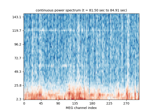
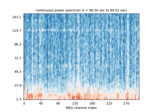
CircleCI update of mne-realtime docs (762).

Changed region(s): [[0.125, 0.0804, 0.875, 0.9107], [0.6875, 0.0804, 0.7188, 0.1071], [0.125, 0.375, 0.1562, 0.4018]]

diff --git a/mne-realtime/auto_examples/sg_execution_times.html b/mne-realtime/auto_examples/sg_execution_times.html
@@ -378,7 +378,7 @@
                   
   <section id="computation-times">
 <span id="sphx-glr-auto-examples-sg-execution-times"></span><h1>Computation times<a class="headerlink" href="#computation-times" title="Link to this heading">#</a></h1>
-<p><strong>01:22.800</strong> total execution time for 8 files <strong>from auto_examples</strong>:</p>
+<p><strong>01:17.854</strong> total execution time for 8 files <strong>from auto_examples</strong>:</p>
 <div class="docutils container">
 <style scoped>
 <link href="https://cdnjs.cloudflare.com/ajax/libs/twitter-bootstrap/5.3.0/css/bootstrap.min.css" rel="stylesheet" />
@@ -400,28 +400,28 @@ $(document).ready( function () {
 </thead>
 <tbody>
 <tr class="row-even"><td><p><a class="reference internal" href="plot_compute_rt_decoder.html#sphx-glr-auto-examples-plot-compute-rt-decoder-py"><span class="std std-ref">Decoding real-time data</span></a> (<code class="docutils literal notranslate"><span class="pre">plot_compute_rt_decoder.py</span></code>)</p></td>
-<td><p>00:22.966</p></td>
-<td><p>325.3</p></td>
+<td><p>00:19.875</p></td>
+<td><p>323.9</p></td>
 </tr>
 <tr class="row-odd"><td><p><a class="reference internal" href="plot_compute_rt_average.html#sphx-glr-auto-examples-plot-compute-rt-average-py"><span class="std std-ref">Compute real-time evoked responses using moving averages</span></a> (<code class="docutils literal notranslate"><span class="pre">plot_compute_rt_average.py</span></code>)</p></td>
-<td><p>00:19.195</p></td>
-<td><p>507.6</p></td>
+<td><p>00:17.222</p></td>
+<td><p>506.5</p></td>
 </tr>
 <tr class="row-even"><td><p><a class="reference internal" href="plot_ftclient_rt_average.html#sphx-glr-auto-examples-plot-ftclient-rt-average-py"><span class="std std-ref">Compute real-time evoked responses with FieldTrip client</span></a> (<code class="docutils literal notranslate"><span class="pre">plot_ftclient_rt_average.py</span></code>)</p></td>
-<td><p>00:16.685</p></td>
-<td><p>195.4</p></td>
+<td><p>00:16.582</p></td>
+<td><p>197.8</p></td>
 </tr>
 <tr class="row-odd"><td><p><a class="reference internal" href="plot_ftclient_rt_compute_psd.html#sphx-glr-auto-examples-plot-ftclient-rt-compute-psd-py"><span class="std std-ref">Compute real-time power spectrum density with FieldTrip client</span></a> (<code class="docutils literal notranslate"><span class="pre">plot_ftclient_rt_compute_psd.py</span></code>)</p></td>
-<td><p>00:11.155</p></td>
-<td><p>194.7</p></td>
+<td><p>00:11.627</p></td>
+<td><p>194.0</p></td>
 </tr>
 <tr class="row-even"><td><p><a class="reference internal" href="plot_lslclient_rt.html#sphx-glr-auto-examples-plot-lslclient-rt-py"><span class="std std-ref">Plot real-time epoch data with LSL client</span></a> (<code class="docutils literal notranslate"><span class="pre">plot_lslclient_rt.py</span></code>)</p></td>
-<td><p>00:08.611</p></td>
-<td><p>181.5</p></td>
+<td><p>00:08.527</p></td>
+<td><p>180.9</p></td>
 </tr>
 <tr class="row-odd"><td><p><a class="reference internal" href="plot_rt_feedback_server.html#sphx-glr-auto-examples-plot-rt-feedback-server-py"><span class="std std-ref">Real-time feedback for decoding :: Server Side</span></a> (<code class="docutils literal notranslate"><span class="pre">plot_rt_feedback_server.py</span></code>)</p></td>
-<td><p>00:04.186</p></td>
-<td><p>326.4</p></td>
+<td><p>00:04.021</p></td>
+<td><p>325.9</p></td>
 </tr>
 <tr class="row-even"><td><p><a class="reference internal" href="rt_feedback_client.html#sphx-glr-auto-examples-rt-feedback-client-py"><span class="std std-ref">Real-time feedback for decoding :: Client Side</span></a> (<code class="docutils literal notranslate"><span class="pre">rt_feedback_client.py</span></code>)</p></td>
 <td><p>00:00.000</p></td>
@@ -477,7 +477,7 @@ $(document).ready( function () {
 
   <p class="copyright">
     
-      © Copyright 2012-2026, MNE Developers. Last updated on 2026-05-24.
+      © Copyright 2012-2026, MNE Developers. Last updated on 2026-05-31.
       <br/>
     
   </p>

diff --git a/mne-realtime/sg_execution_times.html b/mne-realtime/sg_execution_times.html
@@ -378,7 +378,7 @@
                   
   <section id="computation-times">
 <span id="sphx-glr-sg-execution-times"></span><h1>Computation times<a class="headerlink" href="#computation-times" title="Link to this heading">#</a></h1>
-<p><strong>01:22.800</strong> total execution time for 8 files <strong>from all galleries</strong>:</p>
+<p><strong>01:17.854</strong> total execution time for 8 files <strong>from all galleries</strong>:</p>
 <div class="docutils container">
 <style scoped>
 <link href="https://cdnjs.cloudflare.com/ajax/libs/twitter-bootstrap/5.3.0/css/bootstrap.min.css" rel="stylesheet" />
@@ -400,28 +400,28 @@ $(document).ready( function () {
 </thead>
 <tbody>
 <tr class="row-even"><td><p><a class="reference internal" href="auto_examples/plot_compute_rt_decoder.html#sphx-glr-auto-examples-plot-compute-rt-decoder-py"><span class="std std-ref">Decoding real-time data</span></a> (<code class="docutils literal notranslate"><span class="pre">../examples/plot_compute_rt_decoder.py</span></code>)</p></td>
-<td><p>00:22.966</p></td>
-<td><p>325.3</p></td>
+<td><p>00:19.875</p></td>
+<td><p>323.9</p></td>
 </tr>
 <tr class="row-odd"><td><p><a class="reference internal" href="auto_examples/plot_compute_rt_average.html#sphx-glr-auto-examples-plot-compute-rt-average-py"><span class="std std-ref">Compute real-time evoked responses using moving averages</span></a> (<code class="docutils literal notranslate"><span class="pre">../examples/plot_compute_rt_average.py</span></code>)</p></td>
-<td><p>00:19.195</p></td>
-<td><p>507.6</p></td>
+<td><p>00:17.222</p></td>
+<td><p>506.5</p></td>
 </tr>
 <tr class="row-even"><td><p><a class="reference internal" href="auto_examples/plot_ftclient_rt_average.html#sphx-glr-auto-examples-plot-ftclient-rt-average-py"><span class="std std-ref">Compute real-time evoked responses with FieldTrip client</span></a> (<code class="docutils literal notranslate"><span class="pre">../examples/plot_ftclient_rt_average.py</span></code>)</p></td>
-<td><p>00:16.685</p></td>
-<td><p>195.4</p></td>
+<td><p>00:16.582</p></td>
+<td><p>197.8</p></td>
 </tr>
 <tr class="row-odd"><td><p><a class="reference internal" href="auto_examples/plot_ftclient_rt_compute_psd.html#sphx-glr-auto-examples-plot-ftclient-rt-compute-psd-py"><span class="std std-ref">Compute real-time power spectrum density with FieldTrip client</span></a> (<code class="docutils literal notranslate"><span class="pre">../examples/plot_ftclient_rt_compute_psd.py</span></code>)</p></td>
-<td><p>00:11.155</p></td>
-<td><p>194.7</p></td>
+<td><p>00:11.627</p></td>
+<td><p>194.0</p></td>
 </tr>
 <tr class="row-even"><td><p><a class="reference internal" href="auto_examples/plot_lslclient_rt.html#sphx-glr-auto-examples-plot-lslclient-rt-py"><span class="std std-ref">Plot real-time epoch data with LSL client</span></a> (<code class="docutils literal notranslate"><span class="pre">../examples/plot_lslclient_rt.py</span></code>)</p></td>
-<td><p>00:08.611</p></td>
-<td><p>181.5</p></td>
+<td><p>00:08.527</p></td>
+<td><p>180.9</p></td>
 </tr>
 <tr class="row-odd"><td><p><a class="reference internal" href="auto_examples/plot_rt_feedback_server.html#sphx-glr-auto-examples-plot-rt-feedback-server-py"><span class="std std-ref">Real-time feedback for decoding :: Server Side</span></a> (<code class="docutils literal notranslate"><span class="pre">../examples/plot_rt_feedback_server.py</span></code>)</p></td>
-<td><p>00:04.186</p></td>
-<td><p>326.4</p></td>
+<td><p>00:04.021</p></td>
+<td><p>325.9</p></td>
 </tr>
 <tr class="row-even"><td><p><a class="reference internal" href="auto_examples/rt_feedback_client.html#sphx-glr-auto-examples-rt-feedback-client-py"><span class="std std-ref">Real-time feedback for decoding :: Client Side</span></a> (<code class="docutils literal notranslate"><span class="pre">../examples/rt_feedback_client.py</span></code>)</p></td>
 <td><p>00:00.000</p></td>
@@ -477,7 +477,7 @@ $(document).ready( function () {
 
   <p class="copyright">
     
-      © Copyright 2012-2026, MNE Developers. Last updated on 2026-05-24.
+      © Copyright 2012-2026, MNE Developers. Last updated on 2026-05-31.
       <br/>
     
   </p>

diff --git a/mne-realtime/auto_examples/plot_lslclient_rt.html b/mne-realtime/auto_examples/plot_lslclient_rt.html
@@ -462,20 +462,20 @@ Not setting metadata
 No baseline correction applied
 Created an SSP operator (subspace dimension = 1)
 1 projection items activated
-/home/circleci/.pyenv/versions/3.12.7/lib/python3.12/multiprocessing/popen_fork.py:66: DeprecationWarning: This process (pid=1820) is multi-threaded, use of fork() may lead to deadlocks in the child.
+/home/circleci/.pyenv/versions/3.12.7/lib/python3.12/multiprocessing/popen_fork.py:66: DeprecationWarning: This process (pid=1863) is multi-threaded, use of fork() may lead to deadlocks in the child.
   self.pid = os.fork()
 Streams closed
-/home/circleci/.pyenv/versions/3.12.7/lib/python3.12/multiprocessing/popen_fork.py:66: DeprecationWarning: This process (pid=1820) is multi-threaded, use of fork() may lead to deadlocks in the child.
+/home/circleci/.pyenv/versions/3.12.7/lib/python3.12/multiprocessing/popen_fork.py:66: DeprecationWarning: This process (pid=1863) is multi-threaded, use of fork() may lead to deadlocks in the child.
   self.pid = os.fork()
-/home/circleci/.pyenv/versions/3.12.7/lib/python3.12/multiprocessing/popen_fork.py:66: DeprecationWarning: This process (pid=1820) is multi-threaded, use of fork() may lead to deadlocks in the child.
+/home/circleci/.pyenv/versions/3.12.7/lib/python3.12/multiprocessing/popen_fork.py:66: DeprecationWarning: This process (pid=1863) is multi-threaded, use of fork() may lead to deadlocks in the child.
   self.pid = os.fork()
-/home/circleci/.pyenv/versions/3.12.7/lib/python3.12/multiprocessing/popen_fork.py:66: DeprecationWarning: This process (pid=1820) is multi-threaded, use of fork() may lead to deadlocks in the child.
+/home/circleci/.pyenv/versions/3.12.7/lib/python3.12/multiprocessing/popen_fork.py:66: DeprecationWarning: This process (pid=1863) is multi-threaded, use of fork() may lead to deadlocks in the child.
   self.pid = os.fork()
-/home/circleci/.pyenv/versions/3.12.7/lib/python3.12/multiprocessing/popen_fork.py:66: DeprecationWarning: This process (pid=1820) is multi-threaded, use of fork() may lead to deadlocks in the child.
+/home/circleci/.pyenv/versions/3.12.7/lib/python3.12/multiprocessing/popen_fork.py:66: DeprecationWarning: This process (pid=1863) is multi-threaded, use of fork() may lead to deadlocks in the child.
   self.pid = os.fork()
-/home/circleci/.pyenv/versions/3.12.7/lib/python3.12/multiprocessing/popen_fork.py:66: DeprecationWarning: This process (pid=1820) is multi-threaded, use of fork() may lead to deadlocks in the child.
+/home/circleci/.pyenv/versions/3.12.7/lib/python3.12/multiprocessing/popen_fork.py:66: DeprecationWarning: This process (pid=1863) is multi-threaded, use of fork() may lead to deadlocks in the child.
   self.pid = os.fork()
-/home/circleci/.pyenv/versions/3.12.7/lib/python3.12/multiprocessing/popen_fork.py:66: DeprecationWarning: This process (pid=1820) is multi-threaded, use of fork() may lead to deadlocks in the child.
+/home/circleci/.pyenv/versions/3.12.7/lib/python3.12/multiprocessing/popen_fork.py:66: DeprecationWarning: This process (pid=1863) is multi-threaded, use of fork() may lead to deadlocks in the child.
   self.pid = os.fork()
 </pre></div>
 </div>
@@ -528,8 +528,8 @@ Streams closed
 <span class="nb">print</span><span class="p">(</span><span class="s1">&#39;Streams closed&#39;</span><span class="p">)</span>
 </pre></div>
 </div>
-<p class="sphx-glr-timing"><strong>Total running time of the script:</strong> (0 minutes 8.611 seconds)</p>
-<p><strong>Estimated memory usage:</strong>  182 MB</p>
+<p class="sphx-glr-timing"><strong>Total running time of the script:</strong> (0 minutes 8.527 seconds)</p>
+<p><strong>Estimated memory usage:</strong>  181 MB</p>
 <div class="sphx-glr-footer sphx-glr-footer-example docutils container" id="sphx-glr-download-auto-examples-plot-lslclient-rt-py">
 <div class="sphx-glr-download sphx-glr-download-jupyter docutils container">
 <p><a class="reference download internal" download="" href="../_downloads/37ea165bff9eb9cf2fccf24163045c99/plot_lslclient_rt.ipynb"><code class="xref download docutils literal notranslate"><span class="pre">Download</span> <span class="pre">Jupyter</span> <span class="pre">notebook:</span> <span class="pre">plot_lslclient_rt.ipynb</span></code></a></p>
@@ -602,7 +602,7 @@ Streams closed
 
   <p class="copyright">
     
-      © Copyright 2012-2026, MNE Developers. Last updated on 2026-05-24.
+      © Copyright 2012-2026, MNE Developers. Last updated on 2026-05-31.
       <br/>
     
   </p>

diff --git a/mne-realtime/auto_examples/plot_ftclient_rt_compute_psd.html b/mne-realtime/auto_examples/plot_ftclient_rt_compute_psd.html
@@ -417,13 +417,13 @@ how to get the FieldTrip connector working in MNE-Python.</p>
 <p>This example demonstrates how to use it for continuous
 computation of power spectra in real-time using the
 get_data_as_epoch function.</p>
-<img src="../_images/sphx_glr_plot_ftclient_rt_compute_psd_001.png" srcset="../_images/sphx_glr_plot_ftclient_rt_compute_psd_001.png" alt="continuous power spectrum (t = 81.50 sec to 84.91 sec)" class = "sphx-glr-single-img"/><div class="sphx-glr-script-out highlight-none notranslate"><div class="highlight"><pre><span></span>    Read a total of 3 projection items:
+<img src="../_images/sphx_glr_plot_ftclient_rt_compute_psd_001.png" srcset="../_images/sphx_glr_plot_ftclient_rt_compute_psd_001.png" alt="continuous power spectrum (t = 86.50 sec to 89.91 sec)" class = "sphx-glr-single-img"/><div class="sphx-glr-script-out highlight-none notranslate"><div class="highlight"><pre><span></span>    Read a total of 3 projection items:
         PCA-v1 (1 x 102)  idle
         PCA-v2 (1 x 102)  idle
         PCA-v3 (1 x 102)  idle
 Running subprocess: neuromag2ft --file /home/circleci/mne_data/MNE-sample-data/MEG/sample/sample_audvis_raw.fif --speed 10
 FieldTripClient: Waiting for server to start
-/home/circleci/project/mne_realtime/externals/FieldTrip.py:227: ResourceWarning: unclosed &lt;socket.socket fd=13, family=2, type=1, proto=0, laddr=(&#39;0.0.0.0&#39;, 58784)&gt;
+/home/circleci/project/mne_realtime/externals/FieldTrip.py:227: ResourceWarning: unclosed &lt;socket.socket fd=13, family=2, type=1, proto=0, laddr=(&#39;0.0.0.0&#39;, 32878)&gt;
   self.sock = socket.socket(socket.AF_INET, socket.SOCK_STREAM)
 FieldTripClient: Connected
 FieldTripClient: Retrieving header
@@ -538,8 +538,8 @@ Effective window size : 0.426 (s)
             <a href="https://matplotlib.org/stable/api/_as_gen/matplotlib.pyplot.pause.html#matplotlib.pyplot.pause" title="matplotlib.pyplot.pause" class="sphx-glr-backref-module-matplotlib-pyplot sphx-glr-backref-type-py-function"><span class="n">plt</span><span class="o">.</span><span class="n">pause</span></a><span class="p">(</span><span class="mf">0.5</span> <span class="o">/</span> <a href="https://docs.python.org/3/library/functions.html#int" title="builtins.int" class="sphx-glr-backref-module-builtins sphx-glr-backref-type-py-class sphx-glr-backref-instance"><span class="n">speedup</span></a><span class="p">)</span>
 </pre></div>
 </div>
-<p class="sphx-glr-timing"><strong>Total running time of the script:</strong> (0 minutes 11.155 seconds)</p>
-<p><strong>Estimated memory usage:</strong>  195 MB</p>
+<p class="sphx-glr-timing"><strong>Total running time of the script:</strong> (0 minutes 11.627 seconds)</p>
+<p><strong>Estimated memory usage:</strong>  194 MB</p>
 <div class="sphx-glr-footer sphx-glr-footer-example docutils container" id="sphx-glr-download-auto-examples-plot-ftclient-rt-compute-psd-py">
 <div class="sphx-glr-download sphx-glr-download-jupyter docutils container">
 <p><a class="reference download internal" download="" href="../_downloads/ff16df4abc294795a0d28245155bd3eb/plot_ftclient_rt_compute_psd.ipynb"><code class="xref download docutils literal notranslate"><span class="pre">Download</span> <span class="pre">Jupyter</span> <span class="pre">notebook:</span> <span class="pre">plot_ftclient_rt_compute_psd.ipynb</span></code></a></p>
@@ -612,7 +612,7 @@ Effective window size : 0.426 (s)
 
   <p class="copyright">
     
-      © Copyright 2012-2026, MNE Developers. Last updated on 2026-05-24.
+      © Copyright 2012-2026, MNE Developers. Last updated on 2026-05-31.
       <br/>
     
   </p>

diff --git a/mne-realtime/auto_examples/plot_ftclient_rt_average.html b/mne-realtime/auto_examples/plot_ftclient_rt_average.html
@@ -435,7 +435,7 @@ responses using moving averages.</p>
         PCA-v3 (1 x 102)  idle
 Running subprocess: neuromag2ft --file /home/circleci/mne_data/MNE-sample-data/MEG/sample/sample_audvis_raw.fif --speed 10
 FieldTripClient: Waiting for server to start
-/home/circleci/project/mne_realtime/externals/FieldTrip.py:227: ResourceWarning: unclosed &lt;socket.socket fd=13, family=2, type=1, proto=0, laddr=(&#39;0.0.0.0&#39;, 60350)&gt;
+/home/circleci/project/mne_realtime/externals/FieldTrip.py:227: ResourceWarning: unclosed &lt;socket.socket fd=13, family=2, type=1, proto=0, laddr=(&#39;0.0.0.0&#39;, 51894)&gt;
   self.sock = socket.socket(socket.AF_INET, socket.SOCK_STREAM)
 FieldTripClient: Connected
 FieldTripClient: Retrieving header
@@ -554,8 +554,8 @@ Time of 2.0 seconds exceeded.
         <a href="../generated/mne_realtime.RtEpochs.html#mne_realtime.RtEpochs.stop" title="mne_realtime.RtEpochs.stop" class="sphx-glr-backref-module-mne_realtime sphx-glr-backref-type-py-method"><span class="n">rt_epochs</span><span class="o">.</span><span class="n">stop</span></a><span class="p">()</span>
 </pre></div>
 </div>
-<p class="sphx-glr-timing"><strong>Total running time of the script:</strong> (0 minutes 16.685 seconds)</p>
-<p><strong>Estimated memory usage:</strong>  195 MB</p>
+<p class="sphx-glr-timing"><strong>Total running time of the script:</strong> (0 minutes 16.582 seconds)</p>
+<p><strong>Estimated memory usage:</strong>  198 MB</p>
 <div class="sphx-glr-footer sphx-glr-footer-example docutils container" id="sphx-glr-download-auto-examples-plot-ftclient-rt-average-py">
 <div class="sphx-glr-download sphx-glr-download-jupyter docutils container">
 <p><a class="reference download internal" download="" href="../_downloads/d721e921ada43809ef2d0f2254c55e1c/plot_ftclient_rt_average.ipynb"><code class="xref download docutils literal notranslate"><span class="pre">Download</span> <span class="pre">Jupyter</span> <span class="pre">notebook:</span> <span class="pre">plot_ftclient_rt_average.ipynb</span></code></a></p>
@@ -628,7 +628,7 @@ Time of 2.0 seconds exceeded.
 
   <p class="copyright">
     
-      © Copyright 2012-2026, MNE Developers. Last updated on 2026-05-24.
+      © Copyright 2012-2026, MNE Developers. Last updated on 2026-05-31.
       <br/>
     
   </p>

diff --git a/mne-realtime/auto_examples/plot_compute_rt_average.html b/mne-realtime/auto_examples/plot_compute_rt_average.html
@@ -566,8 +566,8 @@ Time of 2.0 seconds exceeded.
     <a href="https://matplotlib.org/stable/api/_as_gen/matplotlib.pyplot.pause.html#matplotlib.pyplot.pause" title="matplotlib.pyplot.pause" class="sphx-glr-backref-module-matplotlib-pyplot sphx-glr-backref-type-py-function"><span class="n">plt</span><span class="o">.</span><span class="n">pause</span></a><span class="p">(</span><span class="mf">0.05</span><span class="p">)</span>
 </pre></div>
 </div>
-<p class="sphx-glr-timing"><strong>Total running time of the script:</strong> (0 minutes 19.195 seconds)</p>
-<p><strong>Estimated memory usage:</strong>  508 MB</p>
+<p class="sphx-glr-timing"><strong>Total running time of the script:</strong> (0 minutes 17.222 seconds)</p>
+<p><strong>Estimated memory usage:</strong>  506 MB</p>
 <div class="sphx-glr-footer sphx-glr-footer-example docutils container" id="sphx-glr-download-auto-examples-plot-compute-rt-average-py">
 <div class="sphx-glr-download sphx-glr-download-jupyter docutils container">
 <p><a class="reference download internal" download="" href="../_downloads/55fcf011b799c5ea1befd73a8932db2f/plot_compute_rt_average.ipynb"><code class="xref download docutils literal notranslate"><span class="pre">Download</span> <span class="pre">Jupyter</span> <span class="pre">notebook:</span> <span class="pre">plot_compute_rt_average.ipynb</span></code></a></p>
@@ -640,7 +640,7 @@ Time of 2.0 seconds exceeded.
 
   <p class="copyright">
     
-      © Copyright 2012-2026, MNE Developers. Last updated on 2026-05-24.
+      © Copyright 2012-2026, MNE Developers. Last updated on 2026-05-31.
       <br/>
     
   </p>

diff --git a/mne-realtime/auto_examples/plot_compute_rt_decoder.html b/mne-realtime/auto_examples/plot_compute_rt_decoder.html
@@ -598,8 +598,8 @@ Just got epoch 50
 <a href="https://matplotlib.org/stable/api/_as_gen/matplotlib.pyplot.draw.html#matplotlib.pyplot.draw" title="matplotlib.pyplot.draw" class="sphx-glr-backref-module-matplotlib-pyplot sphx-glr-backref-type-py-function"><span class="n">plt</span><span class="o">.</span><span class="n">draw</span></a><span class="p">()</span>  <span class="c1"># Final figure</span>
 </pre></div>
 </div>
-<p class="sphx-glr-timing"><strong>Total running time of the script:</strong> (0 minutes 22.966 seconds)</p>
-<p><strong>Estimated memory usage:</strong>  325 MB</p>
+<p class="sphx-glr-timing"><strong>Total running time of the script:</strong> (0 minutes 19.875 seconds)</p>
+<p><strong>Estimated memory usage:</strong>  324 MB</p>
 <div class="sphx-glr-footer sphx-glr-footer-example docutils container" id="sphx-glr-download-auto-examples-plot-compute-rt-decoder-py">
 <div class="sphx-glr-download sphx-glr-download-jupyter docutils container">
 <p><a class="reference download internal" download="" href="../_downloads/1fcf0b51a919f6806e1171c7cbcb6899/plot_compute_rt_decoder.ipynb"><code class="xref download docutils literal notranslate"><span class="pre">Download</span> <span class="pre">Jupyter</span> <span class="pre">notebook:</span> <span class="pre">plot_compute_rt_decoder.ipynb</span></code></a></p>
@@ -672,7 +672,7 @@ Just got epoch 50
 
   <p class="copyright">
     
-      © Copyright 2012-2026, MNE Developers. Last updated on 2026-05-24.
+      © Copyright 2012-2026, MNE Developers. Last updated on 2026-05-31.
       <br/>
     
   </p>

diff --git a/mne-realtime/auto_examples/plot_rt_feedback_server.html b/mne-realtime/auto_examples/plot_rt_feedback_server.html
@@ -581,7 +581,7 @@ Shutting down ...
                 <a href="https://matplotlib.org/stable/api/_as_gen/matplotlib.pyplot.pause.html#matplotlib.pyplot.pause" title="matplotlib.pyplot.pause" class="sphx-glr-backref-module-matplotlib-pyplot sphx-glr-backref-type-py-function"><span class="n">plt</span><span class="o">.</span><span class="n">pause</span></a><span class="p">(</span><span class="mf">0.01</span><span class="p">)</span>
 </pre></div>
 </div>
-<p class="sphx-glr-timing"><strong>Total running time of the script:</strong> (0 minutes 4.186 seconds)</p>
+<p class="sphx-glr-timing"><strong>Total running time of the script:</strong> (0 minutes 4.021 seconds)</p>
 <p><strong>Estimated memory usage:</strong>  326 MB</p>
 <div class="sphx-glr-footer sphx-glr-footer-example docutils container" id="sphx-glr-download-auto-examples-plot-rt-feedback-server-py">
 <div class="sphx-glr-download sphx-glr-download-jupyter docutils container">
@@ -655,7 +655,7 @@ Shutting down ...
 
   <p class="copyright">
     
-      © Copyright 2012-2026, MNE Developers. Last updated on 2026-05-24.
+      © Copyright 2012-2026, MNE Developers. Last updated on 2026-05-31.
       <br/>
     
   </p>

diff --git a/mne-realtime/_modules/index.html b/mne-realtime/_modules/index.html
@@ -424,7 +424,7 @@
 
   <p class="copyright">
     
-      © Copyright 2012-2026, MNE Developers. Last updated on 2026-05-24.
+      © Copyright 2012-2026, MNE Developers. Last updated on 2026-05-31.
       <br/>
     
   </p>

diff --git a/mne-realtime/_modules/mne_realtime/client.html b/mne-realtime/_modules/mne_realtime/client.html
@@ -829,7 +829,7 @@
 
   <p class="copyright">
     
-      © Copyright 2012-2026, MNE Developers. Last updated on 2026-05-24.
+      © Copyright 2012-2026, MNE Developers. Last updated on 2026-05-31.
       <br/>
     
   </p>

diff --git a/mne-realtime/_modules/mne_realtime/epochs.html b/mne-realtime/_modules/mne_realtime/epochs.html
@@ -1026,7 +1026,7 @@
 
   <p class="copyright">
     
-      © Copyright 2012-2026, MNE Developers. Last updated on 2026-05-24.
+      © Copyright 2012-2026, MNE Developers. Last updated on 2026-05-31.
       <br/>
     
   </p>

diff --git a/mne-realtime/_modules/mne_realtime/fieldtrip_client.html b/mne-realtime/_modules/mne_realtime/fieldtrip_client.html
@@ -816,7 +816,7 @@
 
   <p class="copyright">
     
-      © Copyright 2012-2026, MNE Developers. Last updated on 2026-05-24.
+      © Copyright 2012-2026, MNE Developers. Last updated on 2026-05-31.
       <br/>
     
   </p>